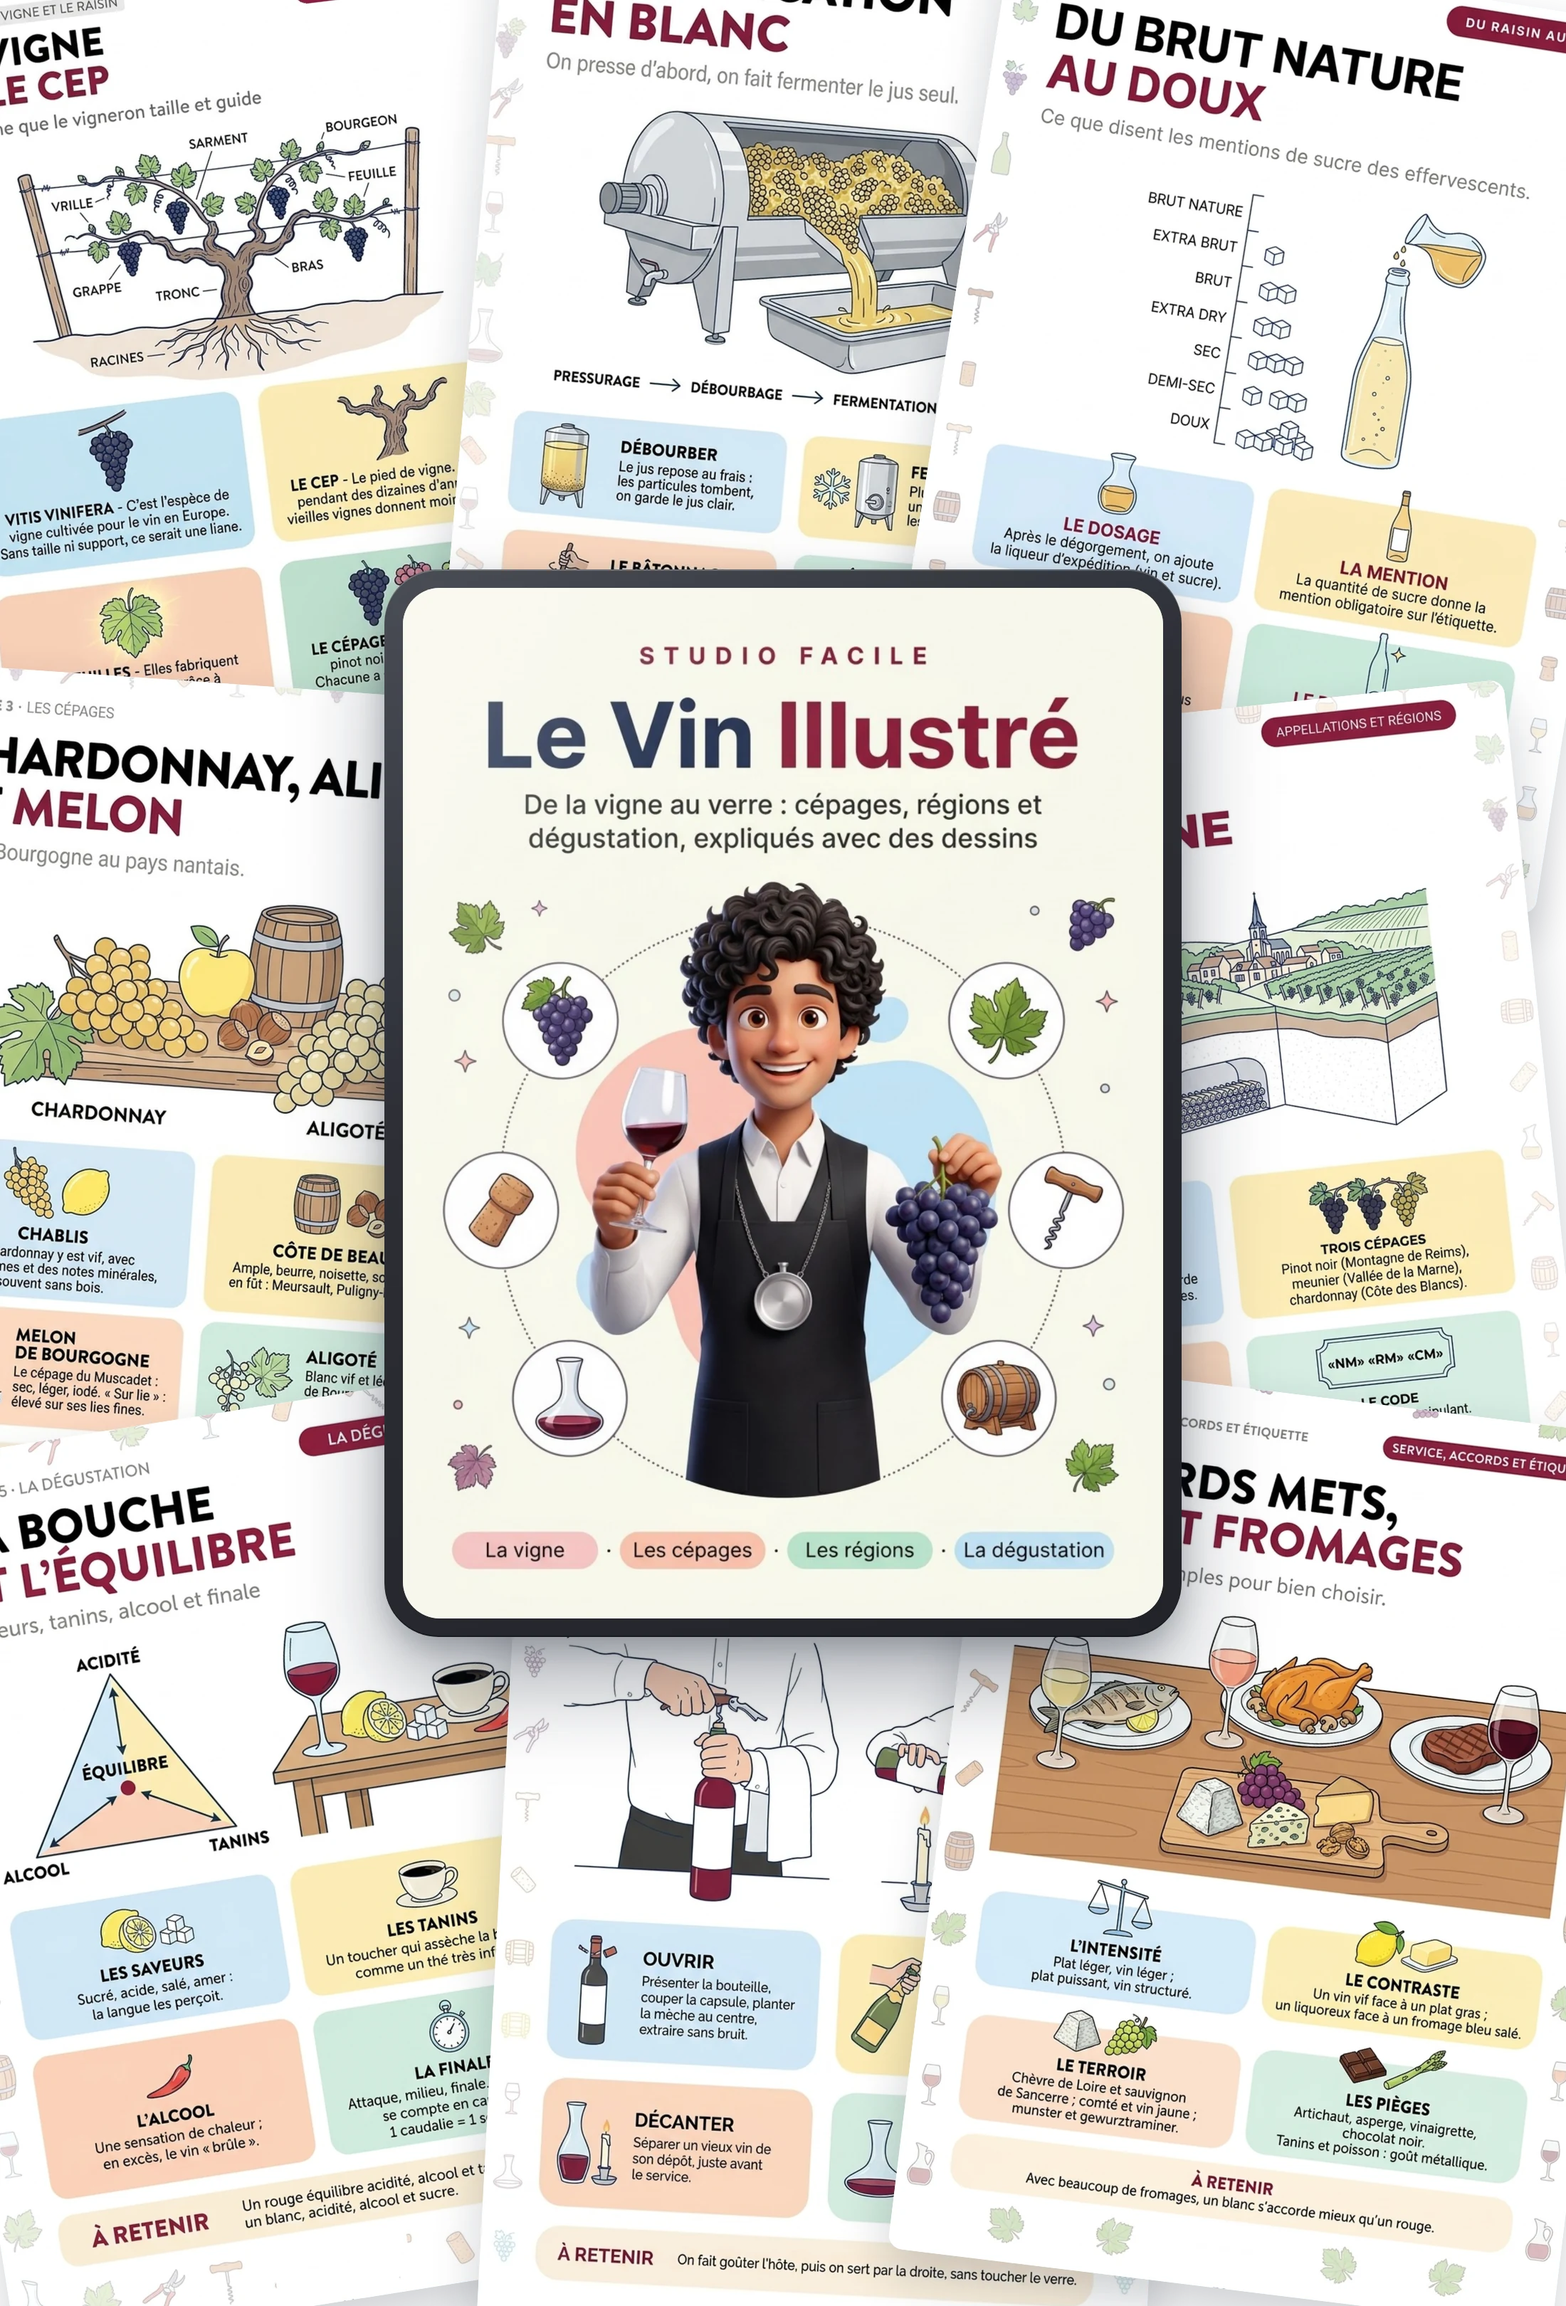
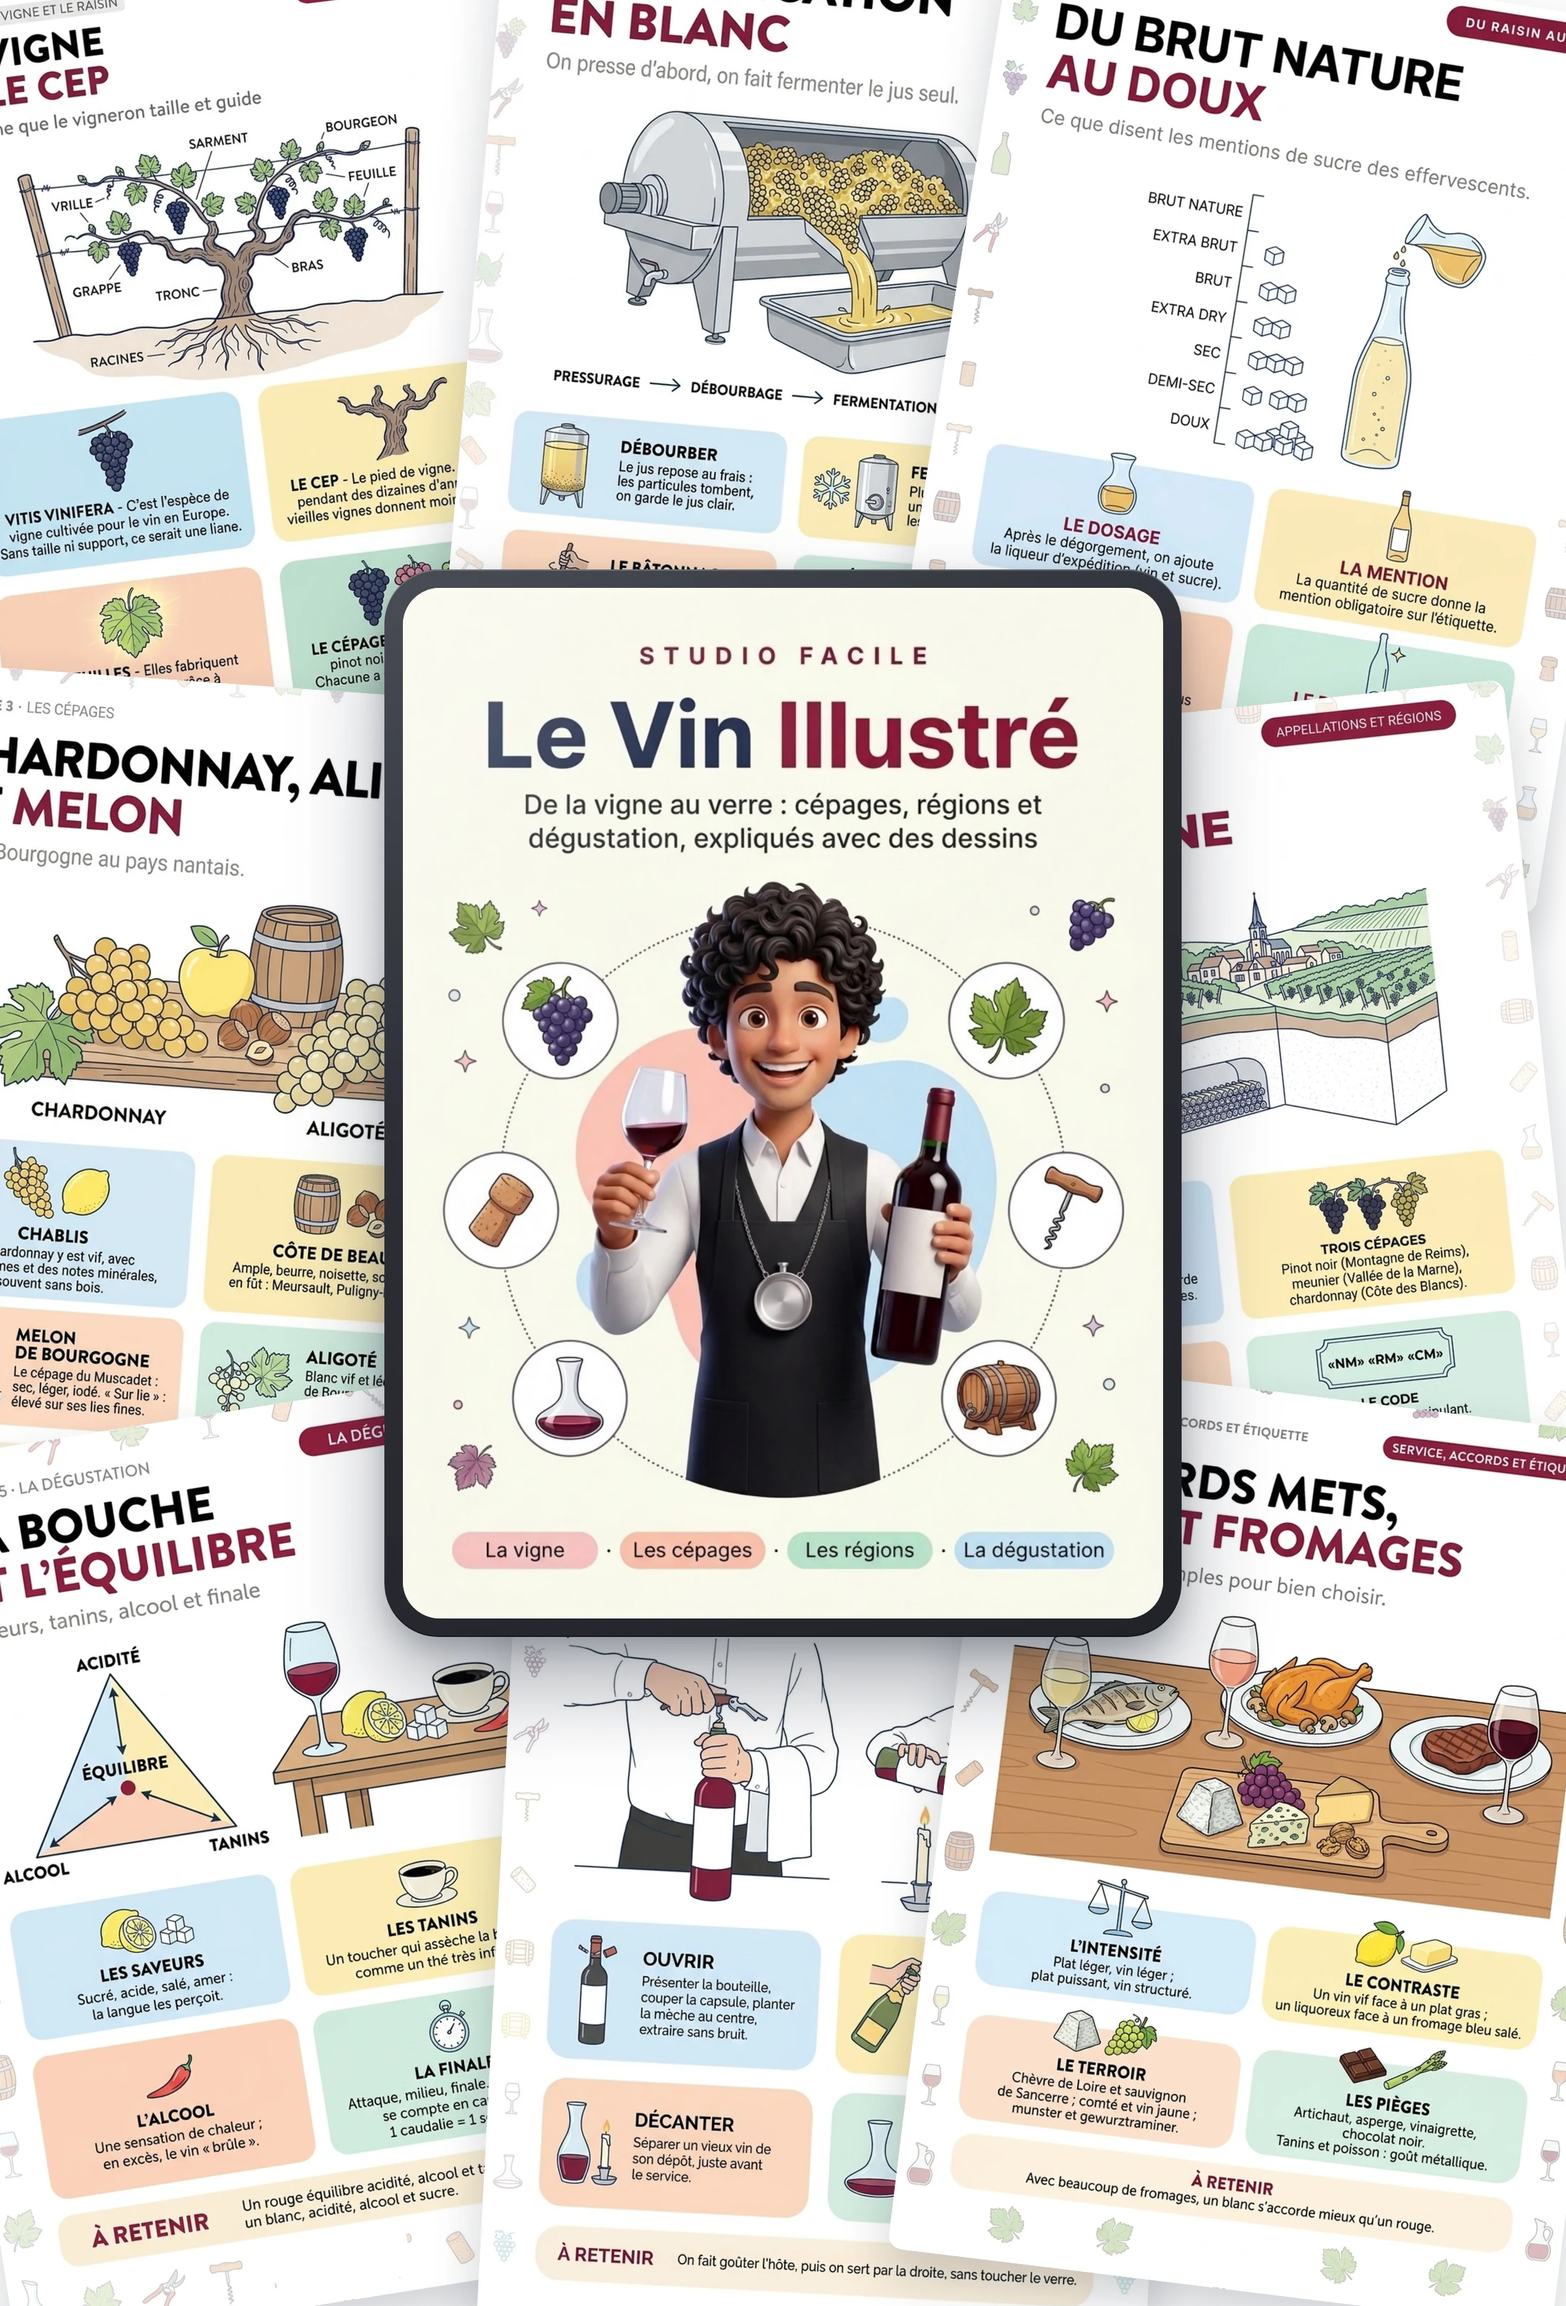
Landing vin FR: nueva portada (copa y botella)

Changed region(s): [[0.5564, 0.4676, 0.6491, 0.5923], [0.4945, 0.4364, 0.5255, 0.4676]]

diff --git a/fr/vin.html b/fr/vin.html
@@ -2153,7 +2153,7 @@
   <section class="hero">
     <div class="hero-content">
       <div class="hero-mockup">
-        <img src="https://czocbnyoenjbpxmcqobn.supabase.co/storage/v1/object/public/algoritmia-img/studiofacile/mockups/vin-fr/hero.webp?v=648604f5" alt="Le Vin Illustré, avec Les QCM du Vin et Le Carnet de Dégustation offerts"
+        <img src="https://czocbnyoenjbpxmcqobn.supabase.co/storage/v1/object/public/algoritmia-img/studiofacile/mockups/vin-fr/hero.webp?v=c8e90b88" alt="Le Vin Illustré, avec Les QCM du Vin et Le Carnet de Dégustation offerts"
              width="1200" height="886" loading="eager" fetchpriority="high" decoding="async">
       </div>
       <h1>Le Vin, de la Vigne au Verre, <mark>Expliqué en Dessins</mark></h1>
@@ -2401,7 +2401,7 @@
     <div class="container">
       <h2 class="text-center">Voici Ce Que Vous Recevez avec Le Vin Illustré :</h2>
       <div style="margin: 20px auto 28px;">
-        <img src="https://czocbnyoenjbpxmcqobn.supabase.co/storage/v1/object/public/algoritmia-img/studiofacile/mockups/vin-fr/combo.webp?v=a41c4a6c" alt="Le Vin Illustré : le livre et des pages d'exemple" width="1100" height="1620" loading="lazy" decoding="async" style="max-width: 480px; width: 100%; display: block; margin: 0 auto;">
+        <img src="https://czocbnyoenjbpxmcqobn.supabase.co/storage/v1/object/public/algoritmia-img/studiofacile/mockups/vin-fr/combo.webp?v=d58c929d" alt="Le Vin Illustré : le livre et des pages d'exemple" width="1100" height="1620" loading="lazy" decoding="async" style="max-width: 480px; width: 100%; display: block; margin: 0 auto;">
       </div>
       <div class="topics-grid">
         <div class="topic-item">
@@ -2495,7 +2495,7 @@
 
       <!-- DECISION BOX -->
       <div class="decision-box" id="offerta">
-        <img src="https://czocbnyoenjbpxmcqobn.supabase.co/storage/v1/object/public/algoritmia-img/studiofacile/mockups/vin-fr/hero.webp?v=648604f5" alt="Le Vin Illustré avec les deux volumes offerts" class="db-mockup" width="1200" height="886" loading="lazy" decoding="async">
+        <img src="https://czocbnyoenjbpxmcqobn.supabase.co/storage/v1/object/public/algoritmia-img/studiofacile/mockups/vin-fr/hero.webp?v=c8e90b88" alt="Le Vin Illustré avec les deux volumes offerts" class="db-mockup" width="1200" height="886" loading="lazy" decoding="async">
         <h3 class="db-title">Le Vin Illustré + 2 Volumes Offerts</h3>
         <ul class="db-checklist">
           <li><span class="db-check"><svg viewBox="0 0 24 24"><polyline points="20 6 9 17 4 12"/></svg></span>Le Vin Illustré&nbsp;: 57 pages illustrées<span class="db-price-val">58,20 €</span></li>
